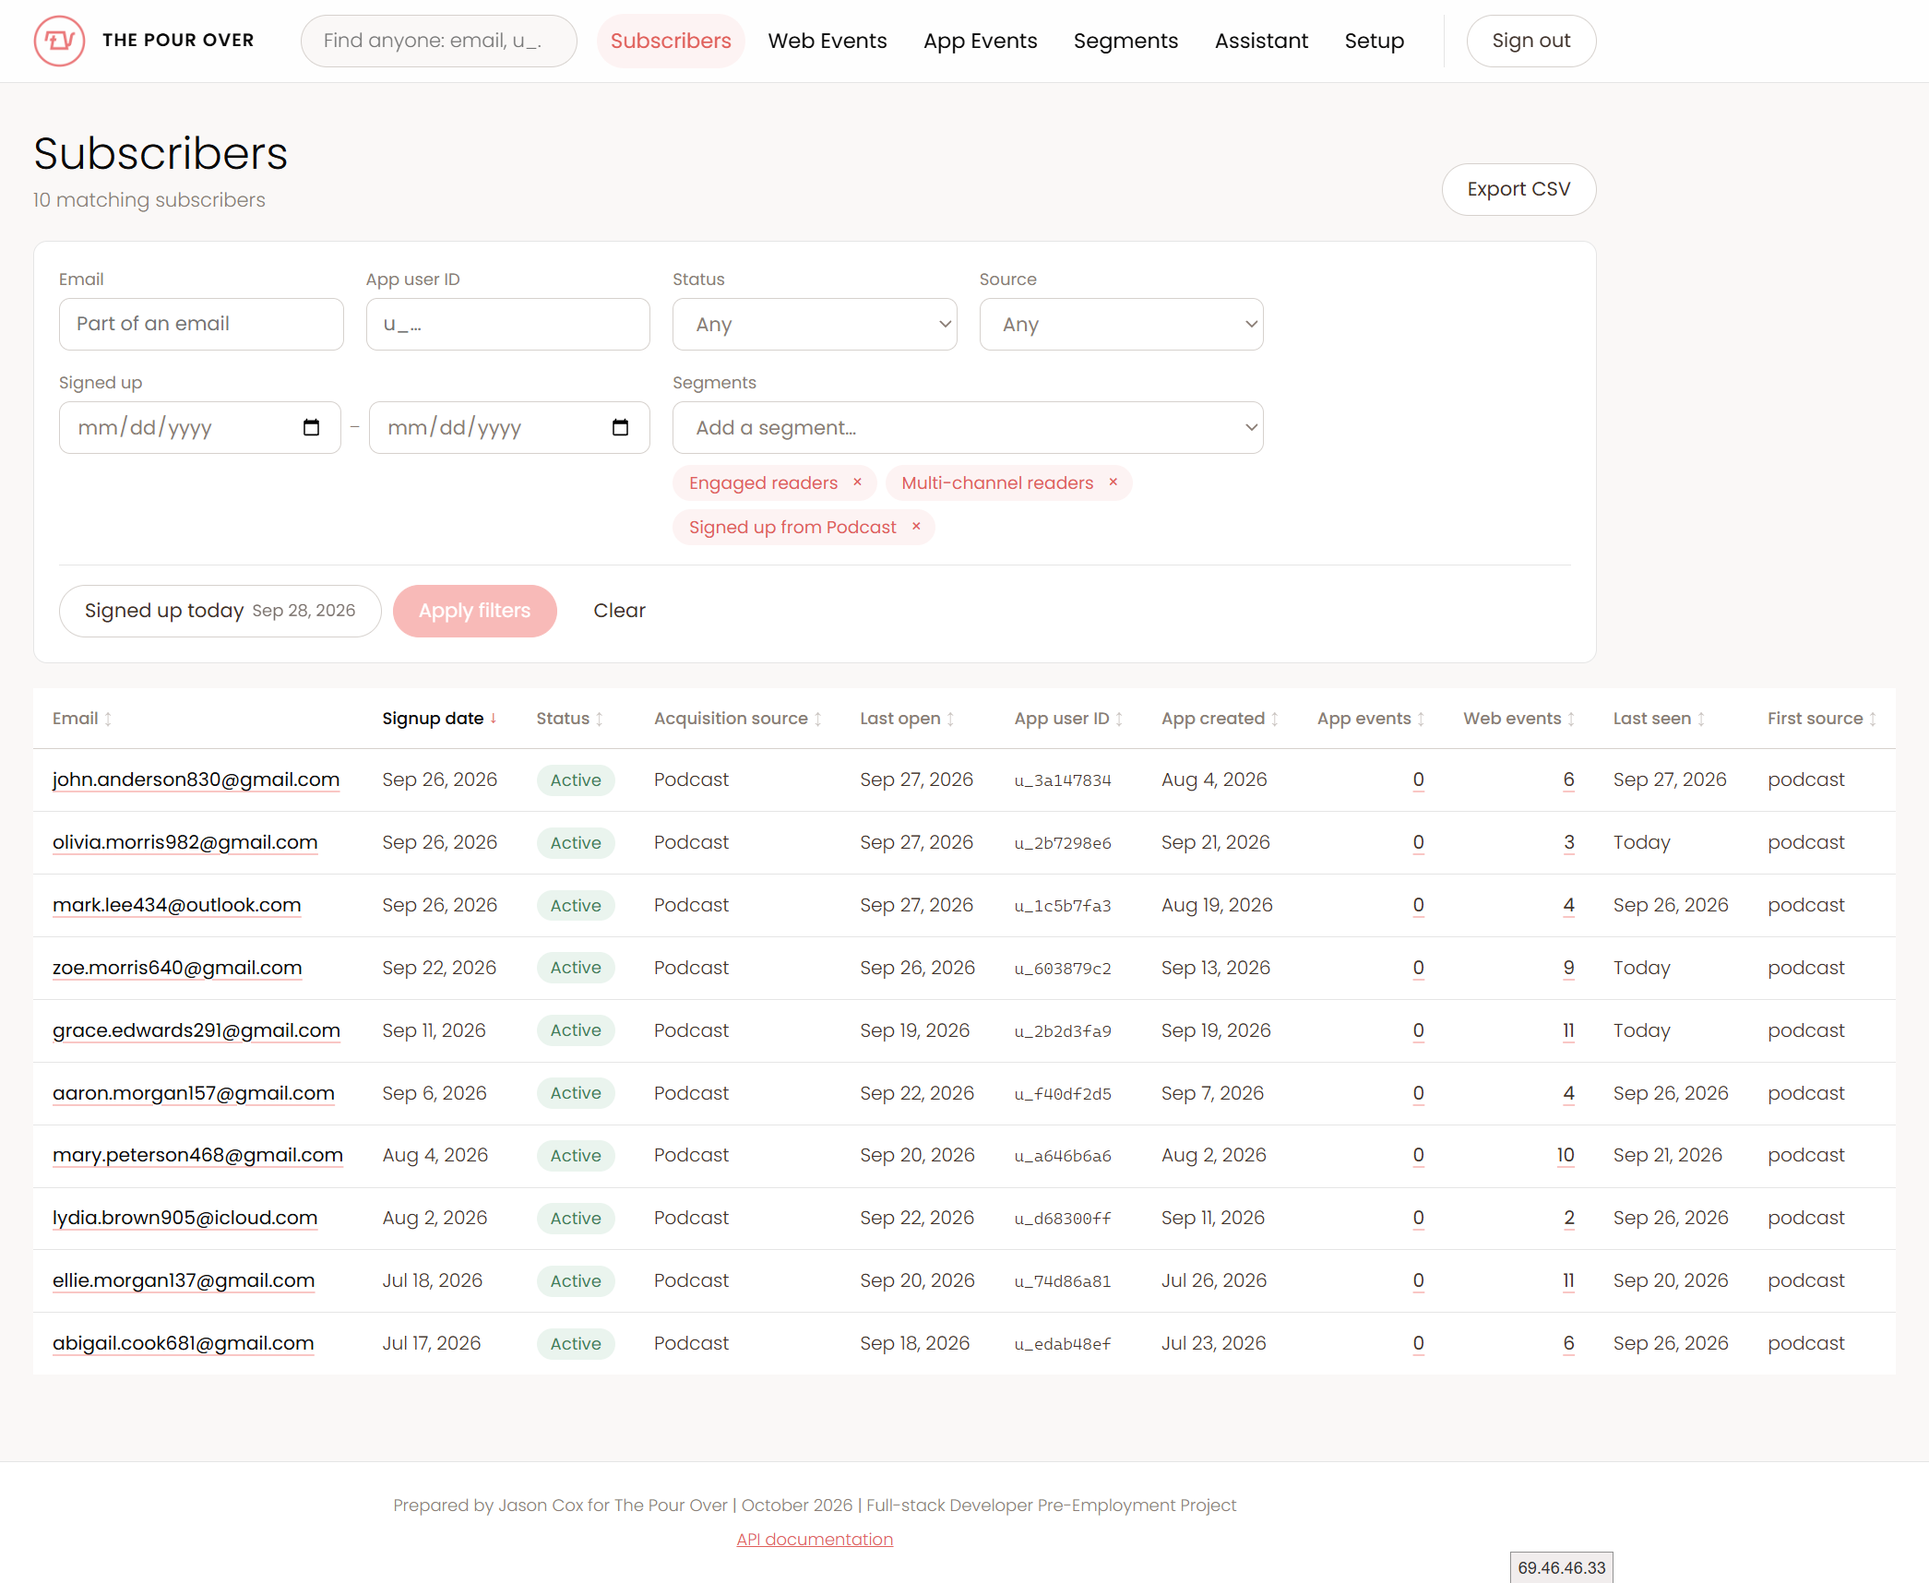
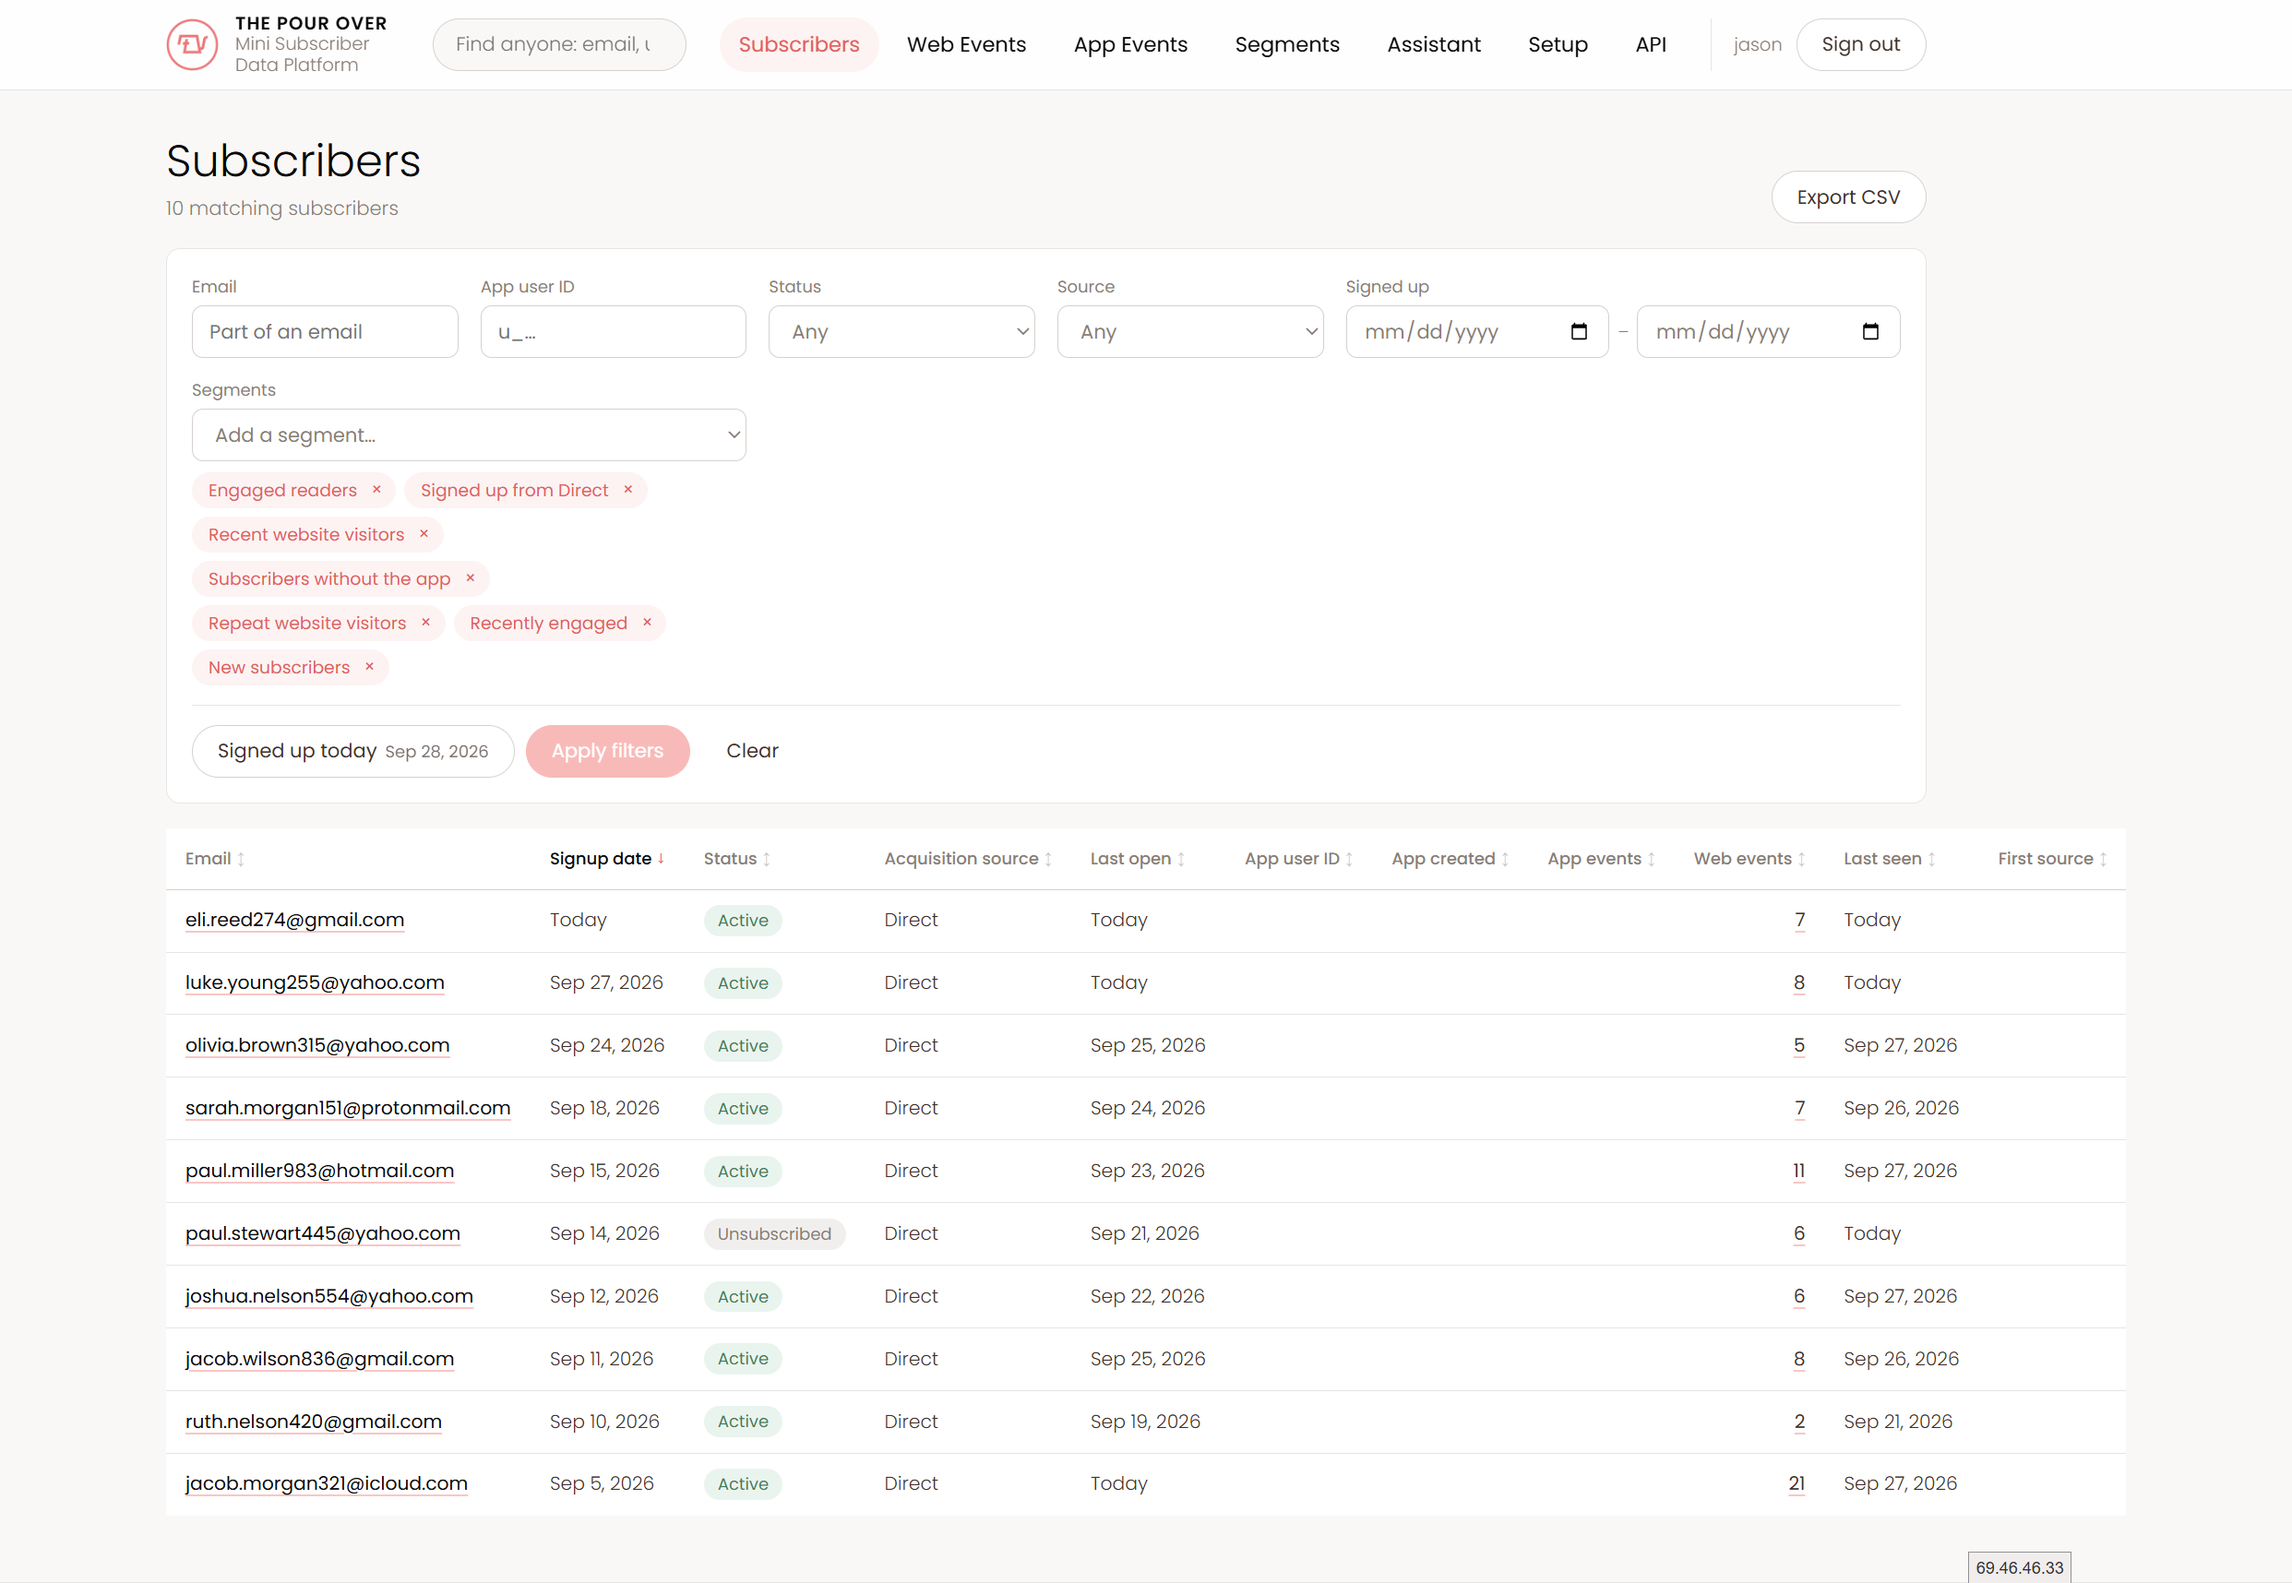
Update two README screenshots (TPO-222)
App Events now shows the live webhook feed; the segments shot combines
seven segments.

diff --git a/README.md b/README.md
@@ -25,8 +25,8 @@ The data shown is the assessment's sample data.
 |---|---|
 | ![Setup: Load Data from Google Drive with the import result and history](docs/screenshots/setup-load-data.png) | ![A subscriber profile with segments, site visits and app activity](docs/screenshots/profile.png) |
 | **Setup:** a Google Drive import, with per-file counts and the import history | **Lookup:** one person's newsletter, web and app activity, and their segments |
-| ![App Events: an event sent through the webhook, with each processing step](docs/screenshots/app-events.png) | ![Subscribers filtered by three segments](docs/screenshots/segment-builder.png) |
-| **Webhook:** a login sent through the real webhook attaches 4 earlier anonymous events | **Segments as filters:** Engaged readers, Multi-channel readers and Signed up from Podcast combined |
+| ![App Events: an event sent through the webhook, and the live webhook feed](docs/screenshots/app-events.png) | ![Subscribers filtered by seven segments](docs/screenshots/segment-builder.png) |
+| **Webhook:** an event sent through the real webhook with each step, and the live feed of every call: stored, duplicate and rejected | **Segments as filters:** seven segments combined, narrowing 2,900 subscribers to 10 |
 | ![The assistant answering which pages new subscribers hit first](docs/screenshots/assistant-pii-panel.png) | |
 | **Assistant:** an answer with the definition it used and a table; "What the AI saw" shows the exact requests | |
 
